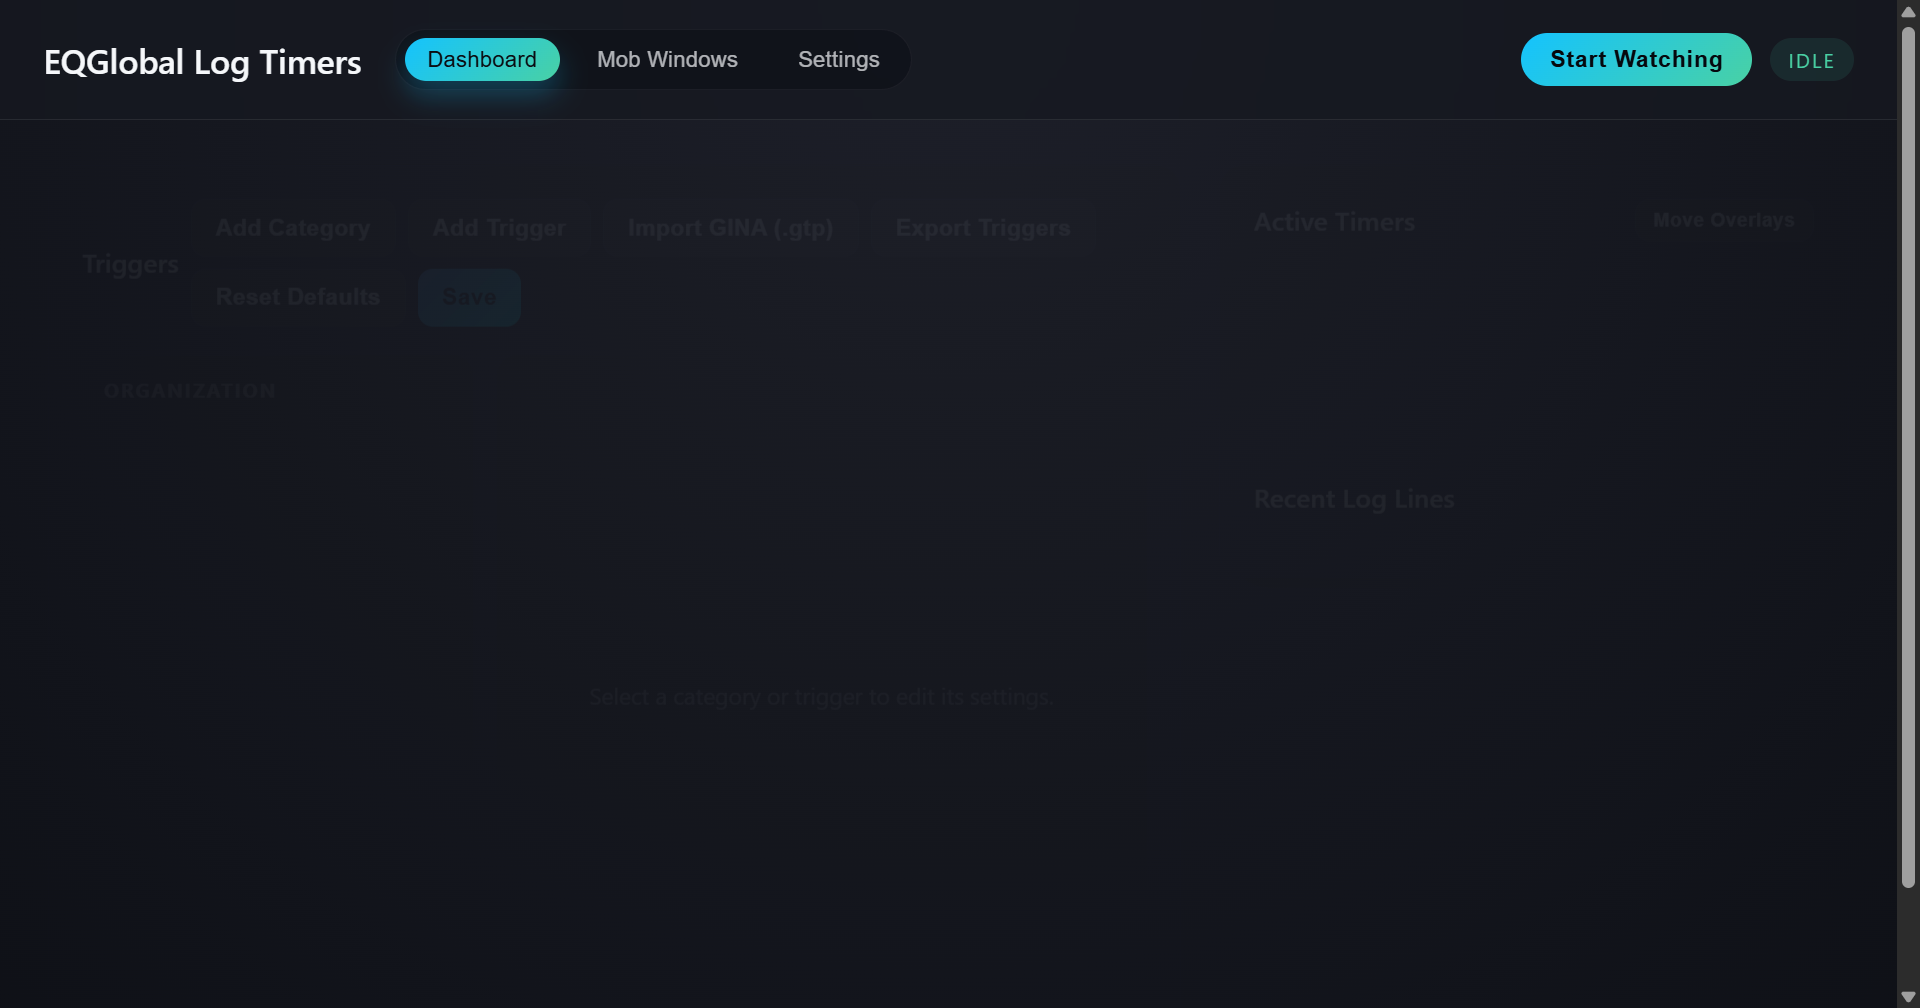
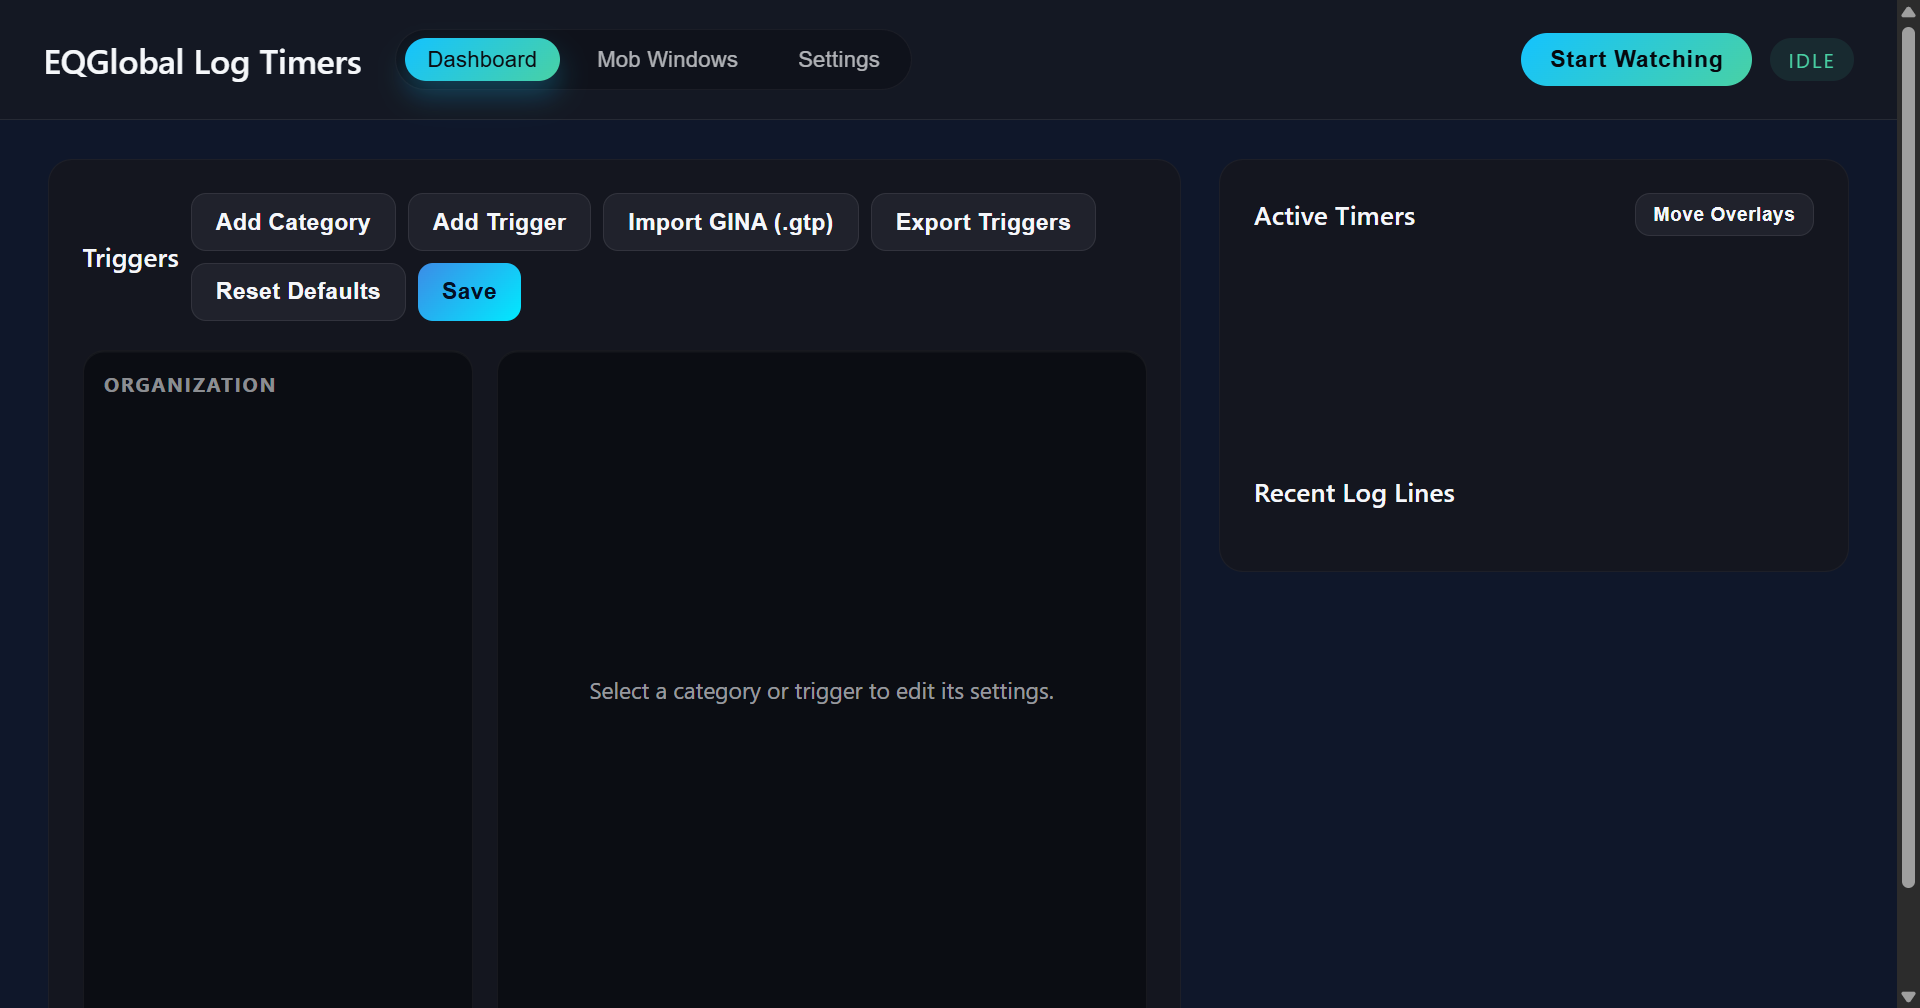
docs(screenshots): wait for control panel load; inject sample data for overlays and delay capture

diff --git a/scripts/capture-screenshots.js b/scripts/capture-screenshots.js
@@ -20,7 +20,14 @@ function ensureDir(p) {
   fs.mkdirSync(p, { recursive: true });
 }
 
-async function captureFile(filePath, outPath, { width = 1280, height = 720, injectCss = '' } = {}) {
+async function captureFile(filePath, outPath, {
+  width = 1280,
+  height = 720,
+  injectCss = '',
+  injectJs = '',
+  waitMs = 0,
+  requireInjection = false,
+} = {}) {
   return new Promise((resolve, reject) => {
     const win = new BrowserWindow({
       width,
@@ -38,6 +45,22 @@ async function captureFile(filePath, outPath, { width = 1280, height = 720, inje
       try {
         if (injectCss && injectCss.trim()) {
           await win.webContents.insertCSS(injectCss);
+        }
+        let injectedOk = true;
+        if (injectJs && injectJs.trim()) {
+          try {
+            injectedOk = await win.webContents.executeJavaScript(injectJs, true);
+          } catch (e) {
+            injectedOk = false;
+          }
+        }
+        if (requireInjection && !injectedOk) {
+          console.warn('Skipping capture because injection failed for', filePath);
+          resolve();
+          return;
+        }
+        if (waitMs && waitMs > 0) {
+          await new Promise((r) => setTimeout(r, waitMs));
         }
         const image = await win.webContents.capturePage();
         fs.writeFileSync(outPath, image.toPNG());
@@ -60,32 +83,59 @@ app.whenReady().then(async () => {
     const outDir = path.join(root, 'docs', 'screenshots');
     ensureDir(outDir);
 
-    // Overlay Timers
+    // Overlay Timers (only if sample timers injected)
     await captureFile(
       path.join(rendererDir, 'overlay-timers.html'),
       path.join(outDir, 'overlay-timers.png'),
       {
-        injectCss:
-          'html,body{background:#0f172a !important} .panel{box-shadow:none !important}',
+        injectCss: 'html,body{background:#0f172a !important} .panel{box-shadow:none !important}',
+        injectJs: `(() => {
+          try {
+            const now = Date.now();
+            if (typeof updateTimers !== 'function') return false;
+            updateTimers([
+              { id: 't1', label: 'Complete Heal', duration: 120, color: '#ffd93d', expiresAt: new Date(now + 90_000).toISOString() },
+              { id: 't2', label: 'Rampage', duration: 45, color: '#ffa94d', expiresAt: new Date(now + 28_000).toISOString() },
+              { id: 't3', label: 'Cure', duration: 15, color: '#6bcff6', expiresAt: new Date(now + 12_000).toISOString() }
+            ]);
+            return true;
+          } catch { return false; }
+        })()`,
+        waitMs: 2500,
+        requireInjection: true,
       }
     );
 
-    // Control Panel (main window)
+    // Control Panel (main window) — wait longer for content
     await captureFile(
       path.join(rendererDir, 'index.html'),
       path.join(outDir, 'control-panel.png'),
       {
-        injectCss:
-          'html,body{background:#0f172a !important} .panel{box-shadow:none !important}',
+        injectCss: 'html,body{background:#0f172a !important} .panel{box-shadow:none !important}',
+        waitMs: 3500,
       }
     );
 
-    // Mob Windows
+    // Mob Windows (only if sample snapshot injected)
     await captureFile(
       path.join(rendererDir, 'overlay-mobs.html'),
       path.join(outDir, 'mob-windows.png'),
       {
         injectCss: 'html,body{background:#0f172a !important}',
+        injectJs: `(() => {
+          try {
+            const now = Date.now();
+            if (typeof updateMobWindows !== 'function') return false;
+            updateMobWindows({ mobs: [
+              { id: 'nagafen', name: 'Lord Nagafen', inWindow: true, secondsUntilClose: 3600, windowProgress: 0.25, lastKillAt: new Date(now - 7_200_000).toISOString(), windowClosesAt: new Date(now + 3_600_000).toISOString() },
+              { id: 'trakanon', name: 'Trakanon', inWindow: false, secondsUntilOpen: 14_400, windowOpensAt: new Date(now + 14_400_000).toISOString(), windowClosesAt: new Date(now + 21_600_000).toISOString() },
+              { id: 'venril', name: 'Venril Sathir', inWindow: false, secondsUntilOpen: 3_600, windowOpensAt: new Date(now + 3_600_000).toISOString(), windowClosesAt: new Date(now + 10_800_000).toISOString() }
+            ]});
+            return true;
+          } catch { return false; }
+        })()`,
+        waitMs: 2000,
+        requireInjection: true,
       }
     );
 
